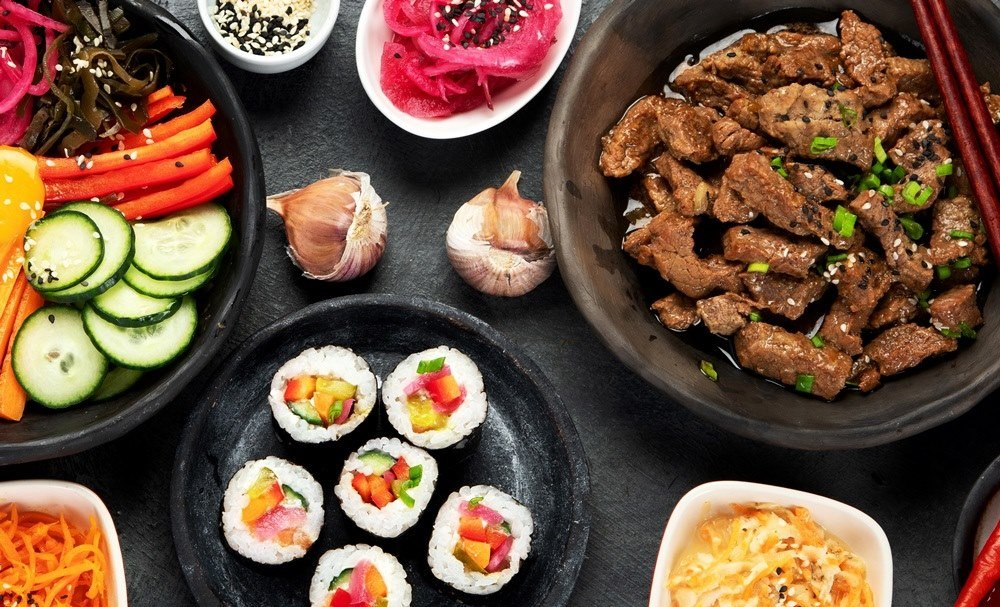
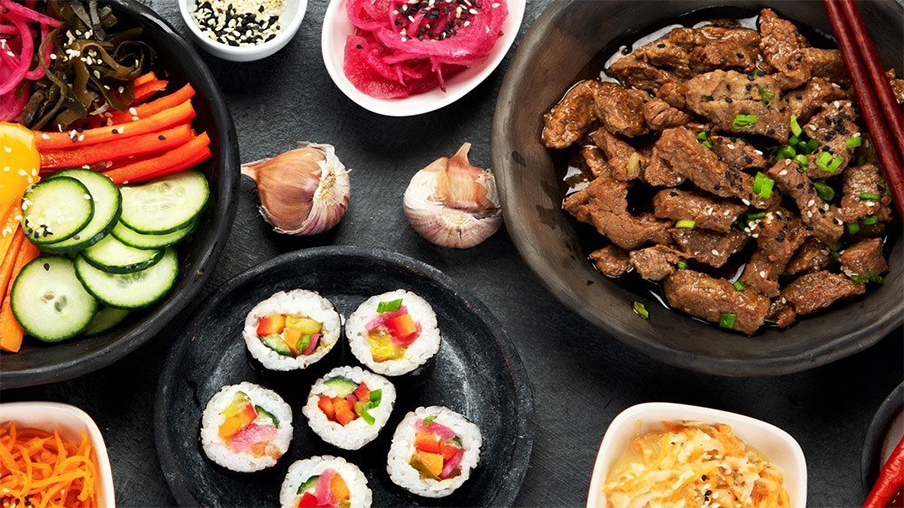
0516tj1

Changed region(s): [[0.2168, 0.0, 0.3097, 0.0886]]

diff --git a/src/main/webapp/resources/js/dday.js b/src/main/webapp/resources/js/dday.js
@@ -28,3 +28,29 @@ window.addEventListener('DOMContentLoaded', function () {
         }
     });
 });
+
+function updateDdayBadges() {
+    const dDayElements = document.querySelectorAll('[data-dday]');
+
+    dDayElements.forEach(function (el) {
+        const targetDate = el.getAttribute('data-dday');
+        const d = calculateDDay(targetDate);
+
+        // 텍스트 설정
+        el.textContent = d > 0 ? `D-${d}` : d === 0 ? 'D-Day' : '종료';
+
+        // 기존 배경 클래스 제거
+        el.classList.remove('bg-success', 'bg-warning', 'bg-danger', 'bg-dark');
+
+        // 색상 클래스 설정
+        if (d > 7) {
+            el.classList.add('bg-success');
+        } else if (d <= 7 && d > 3) {
+            el.classList.add('bg-warning');
+        } else if (d <= 3 && d >= 0) {
+            el.classList.add('bg-danger');
+        } else {
+            el.classList.add('bg-dark');
+        }
+    });
+}

diff --git a/src/main/webapp/resources/css/food_style2.css b/src/main/webapp/resources/css/food_style2.css
@@ -74,7 +74,7 @@ a {
 
 .section-title {
     text-align: center;
-    margin-bottom: 30px;
+    /* margin-bottom: 30px; */
 }
 
 .section-title h2 {
@@ -181,6 +181,12 @@ a {
 .class-top img {
 	width: 100%;
 	display: block;
+}
+
+.card-img-top2{
+	width: 268px;
+  	height: 201px;
+  	object-fit: cover; /* 또는 contain */
 }
 
 .nav-tabs {
